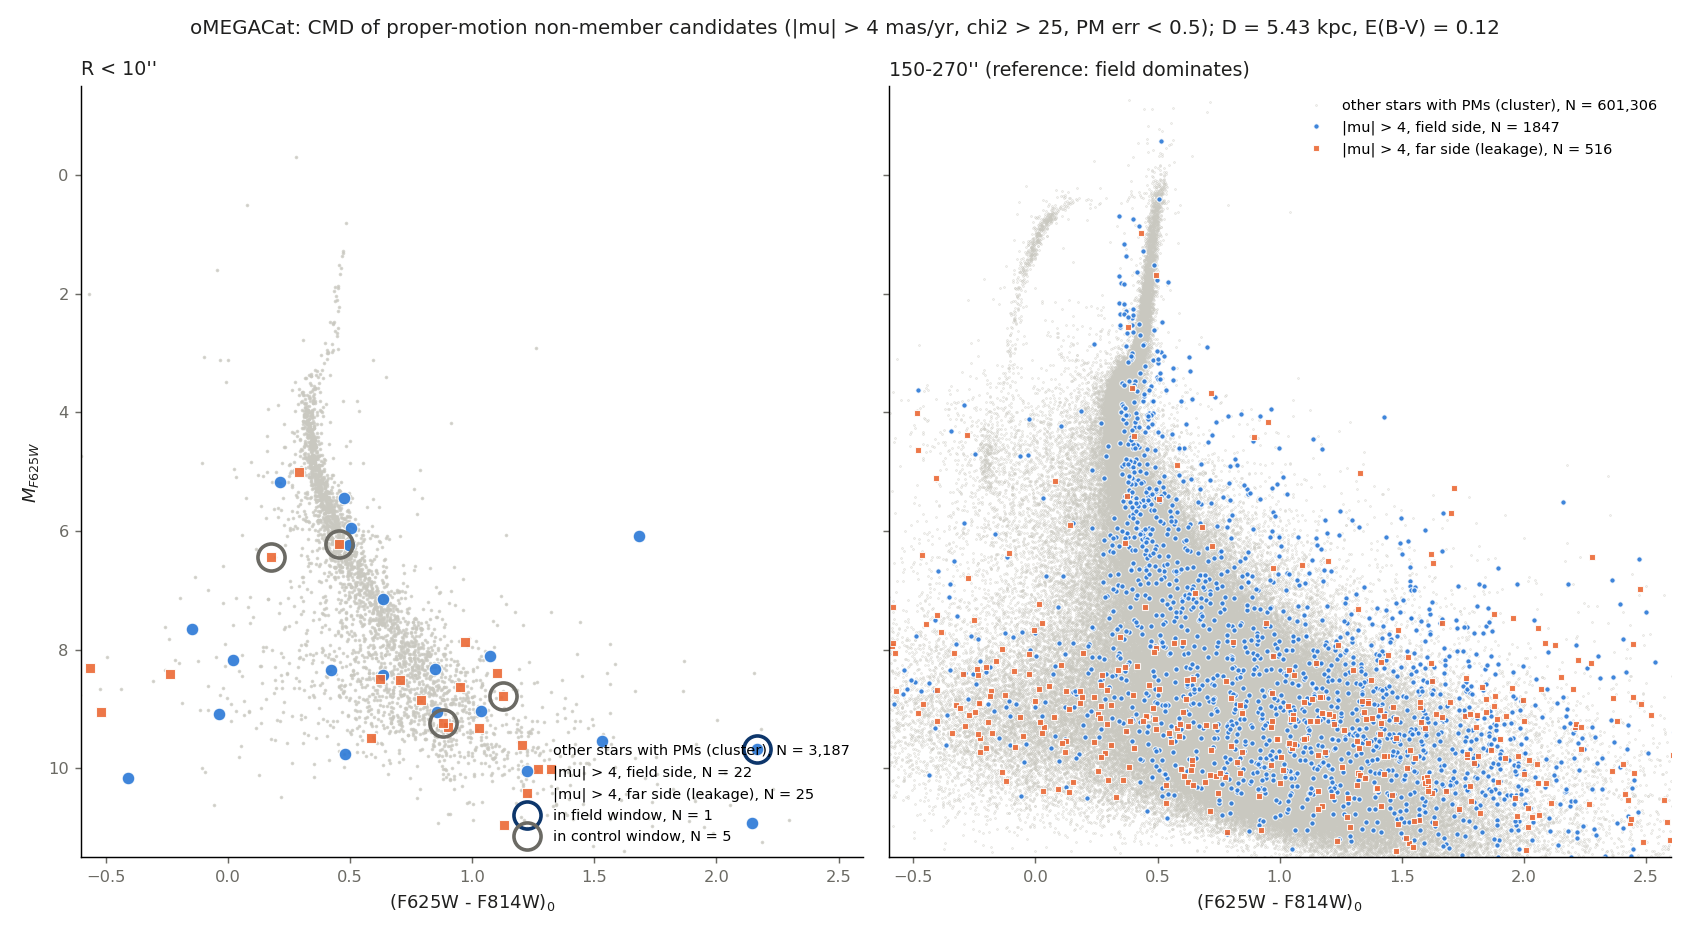
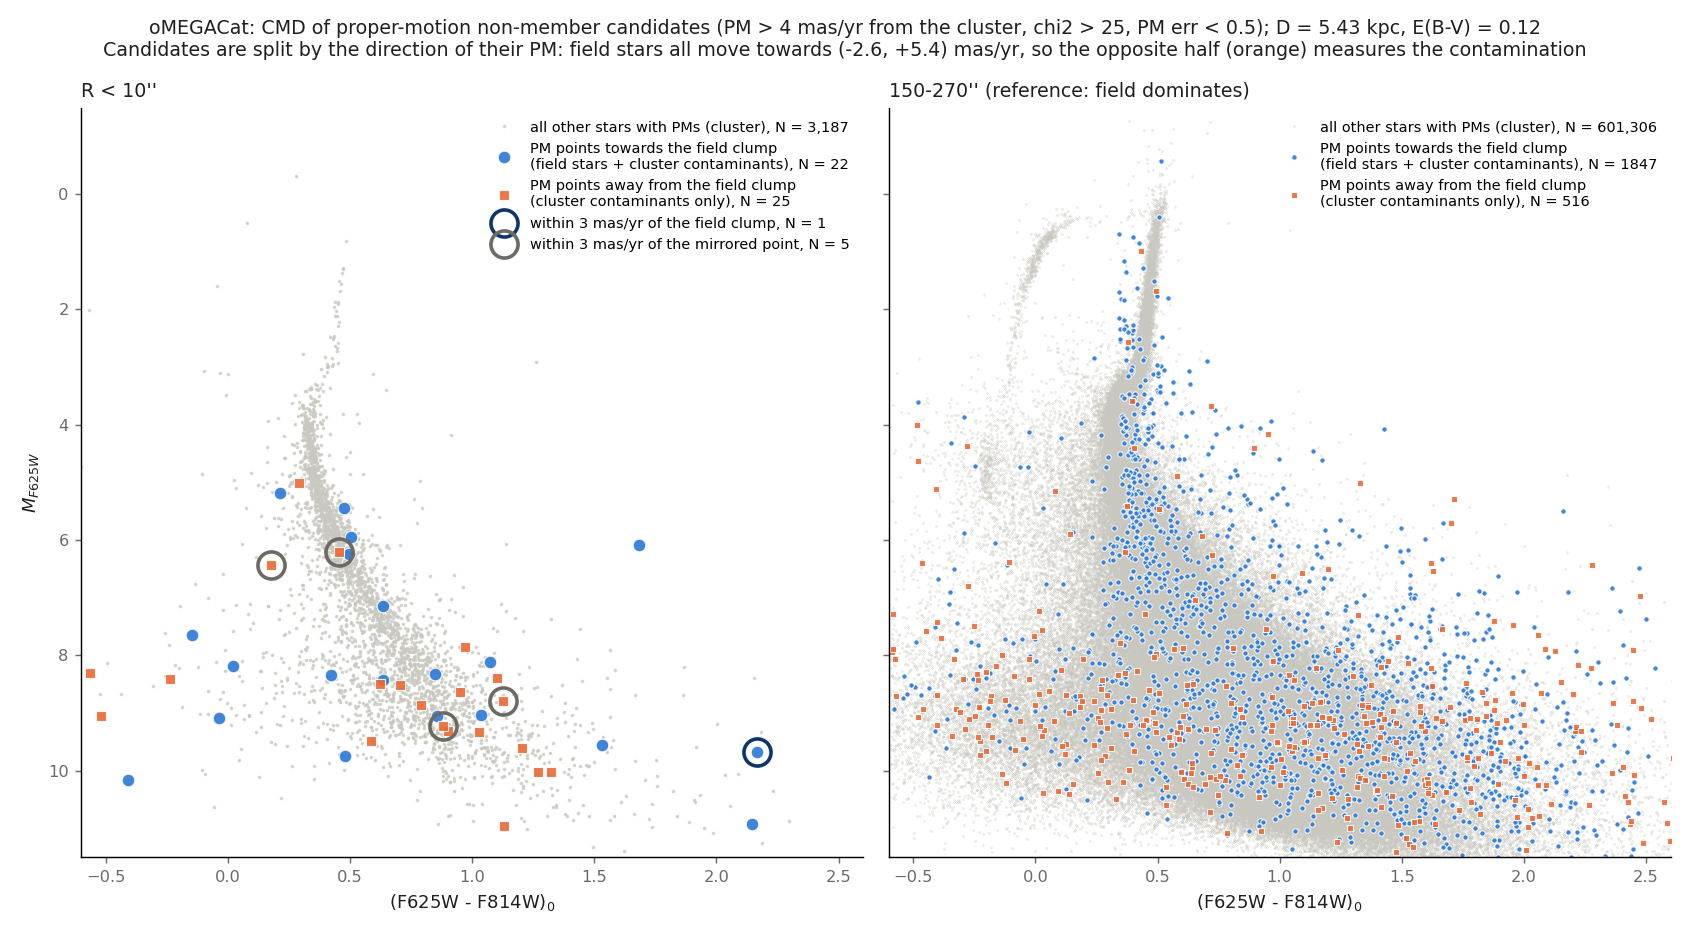
Inner non-member CMD: clearer legend (PM direction relative to the field clump), top right

diff --git a/bin/plot_inner_nonmember_cmd.py b/bin/plot_inner_nonmember_cmd.py
@@ -56,16 +56,16 @@ def main():
         ring = (R >= lo) & (R < hi)
         bg = ring & np.isfinite(ma) & ~cand & phot
         a.plot(C[bg], M[bg], ".", color="#c9c8c0", ms=2 if lo == 0 else 0.6, alpha=0.7, rasterized=True,
-               label=f"other stars with PMs (cluster), N = {bg.sum():,}")
+               label=f"all other stars with PMs (cluster), N = {bg.sum():,}")
         fs = ring & cand & side & phot; fa = ring & cand & ~side & phot
         a.plot(C[fs], M[fs], "o", color="#2a78d6", ms=7 if lo == 0 else 3, mec="white", mew=0.6, alpha=0.9,
-               label=f"|mu| > 4, field side, N = {fs.sum()}")
+               label=f"PM points towards the field clump\n(field stars + cluster contaminants), N = {fs.sum()}")
         a.plot(C[fa], M[fa], "s", color="#eb6834", ms=6 if lo == 0 else 3, mec="white", mew=0.6, alpha=0.9,
-               label=f"|mu| > 4, far side (leakage), N = {fa.sum()}")
+               label=f"PM points away from the field clump\n(cluster contaminants only), N = {fa.sum()}")
         if lo == 0:
             wf = ring & win_f & phot; wc = ring & win_c & phot
-            a.plot(C[wf], M[wf], "o", mfc="none", mec="#0d366b", ms=15, mew=2, label=f"in field window, N = {wf.sum()}")
-            a.plot(C[wc], M[wc], "o", mfc="none", mec="#6b6a64", ms=15, mew=2, label=f"in control window, N = {wc.sum()}")
+            a.plot(C[wf], M[wf], "o", mfc="none", mec="#0d366b", ms=15, mew=2, label=f"within 3 mas/yr of the field clump, N = {wf.sum()}")
+            a.plot(C[wc], M[wc], "o", mfc="none", mec="#6b6a64", ms=15, mew=2, label=f"within 3 mas/yr of the mirrored point, N = {wc.sum()}")
             nophot = ring & cand & ~phot
             out["inner10"] = dict(n_candidates=int((ring & cand).sum()), n_field_side=int((ring & cand & side).sum()),
                                   n_far_side=int((ring & cand & ~side).sum()), n_without_photometry=int(nophot.sum()),
@@ -76,13 +76,14 @@ def main():
         a.set_xlim(-0.6, 2.6); a.set_ylim(11.5, -1.5)
         a.set_xlabel("(F625W - F814W)$_0$", color=INK)
         a.set_title(title, fontsize=10.5, color=INK, loc="left")
-        a.legend(fontsize=8, frameon=False, loc="lower right" if lo == 0 else "upper right", markerscale=1.0)
+        a.legend(fontsize=8, frameon=True, framealpha=0.9, edgecolor="none", loc="upper right", markerscale=1.0)
         a.tick_params(colors=MUTED, labelsize=9)
         for sp in ("top", "right"):
             a.spines[sp].set_visible(False)
     ax[0].set_ylabel("$M_{F625W}$", color=INK)
-    fig.suptitle("oMEGACat: CMD of proper-motion non-member candidates (|mu| > 4 mas/yr, chi2 > 25, PM err < 0.5); "
-                 "D = 5.43 kpc, E(B-V) = 0.12", fontsize=11, color=INK)
+    fig.suptitle("oMEGACat: CMD of proper-motion non-member candidates (PM > 4 mas/yr from the cluster, chi2 > 25, PM err < 0.5); "
+                 "D = 5.43 kpc, E(B-V) = 0.12\nCandidates are split by the direction of their PM: field stars all move towards (-2.6, +5.4) "
+                 "mas/yr, so the opposite half (orange) measures the contamination", fontsize=10.5, color=INK)
     fig.tight_layout()
     fig.savefig(ROOT/"plots/omegacat_inner10_nonmember_cmd.png", dpi=130)
     (ROOT/"results/plot_data/omegacat_inner10_nonmember_cmd.json").write_text(json.dumps(out, indent=1))
